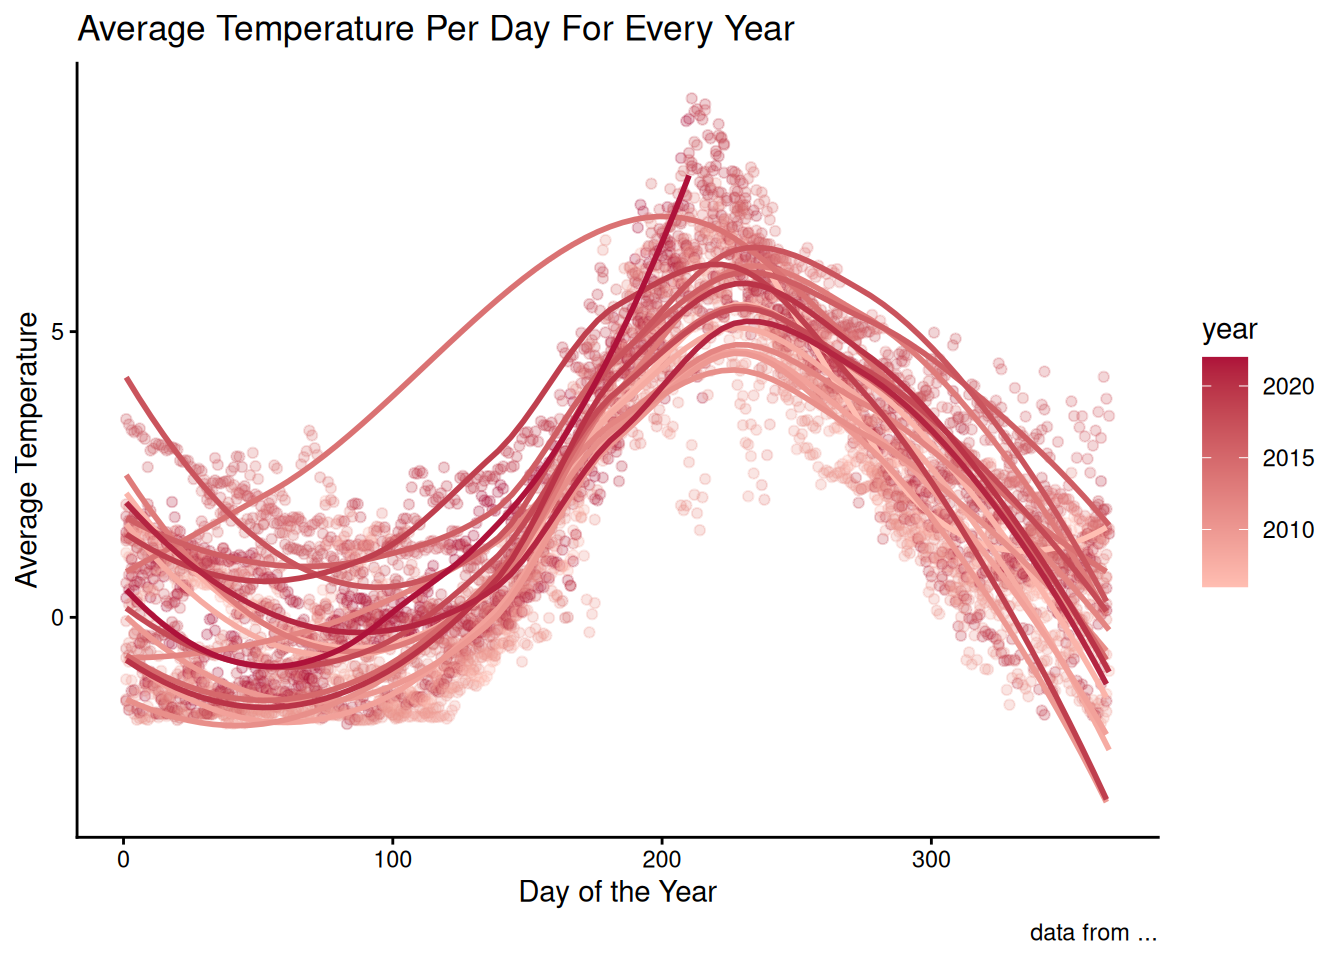
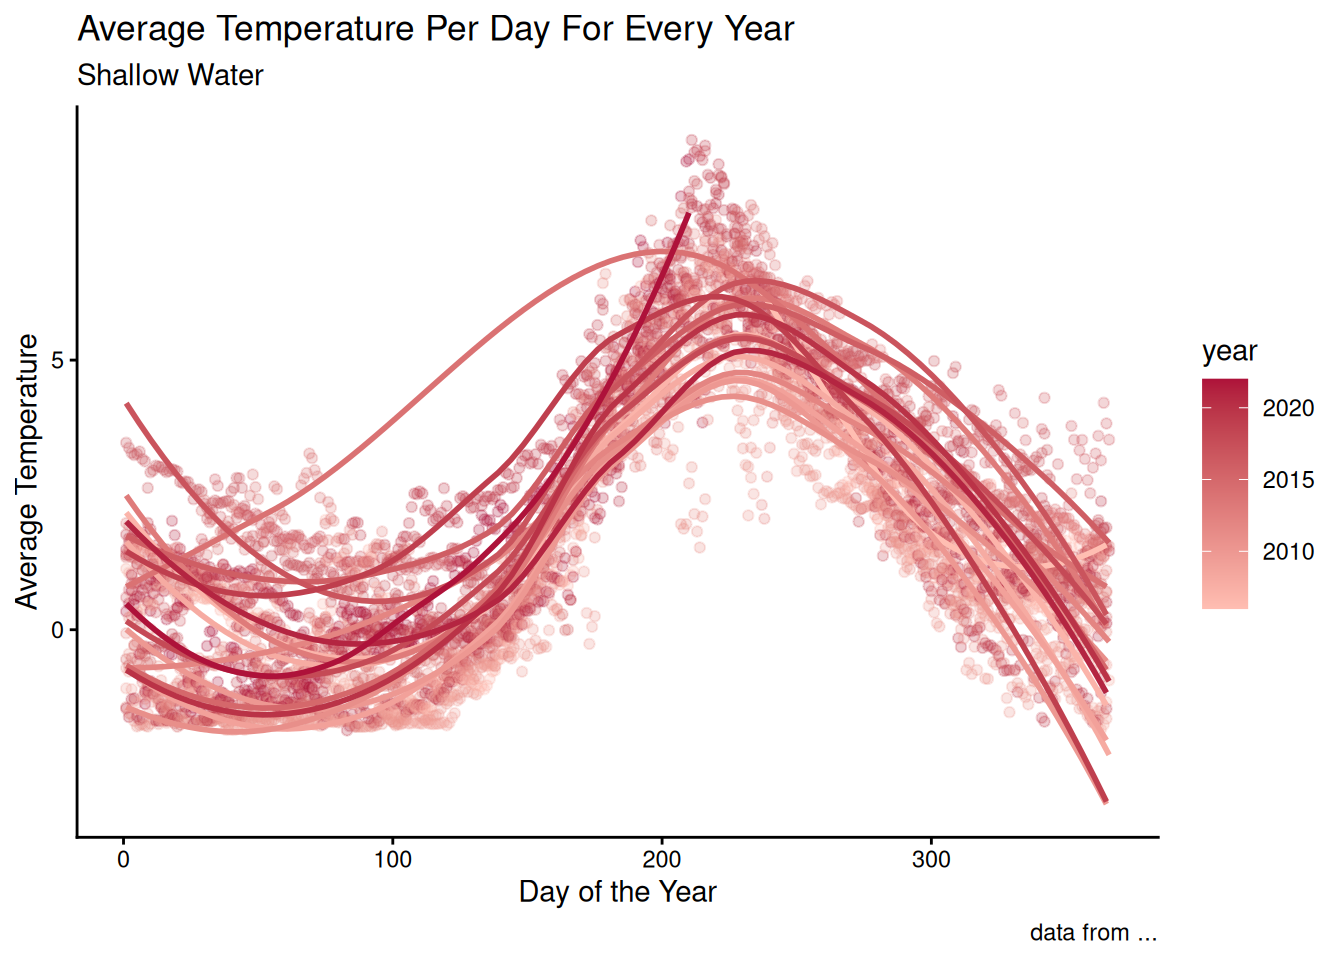
test

diff --git a/docs/posts/my_first_post/index.html b/docs/posts/my_first_post/index.html
@@ -268,9 +268,10 @@ pre > code.sourceCode > span > a:first-child::before { text-decoration: underlin
 <span id="cb3-55"><a href="#cb3-55" aria-hidden="true" tabindex="-1"></a>    <span class="at">x =</span> <span class="st">"Day of the Year"</span>,</span>
 <span id="cb3-56"><a href="#cb3-56" aria-hidden="true" tabindex="-1"></a>    <span class="at">y =</span> <span class="st">"Average Temperature"</span>,</span>
 <span id="cb3-57"><a href="#cb3-57" aria-hidden="true" tabindex="-1"></a>    <span class="at">title =</span> <span class="st">"Average Temperature Per Day For Every Year"</span>,</span>
-<span id="cb3-58"><a href="#cb3-58" aria-hidden="true" tabindex="-1"></a>    <span class="at">caption =</span> <span class="st">"data from ..."</span></span>
-<span id="cb3-59"><a href="#cb3-59" aria-hidden="true" tabindex="-1"></a>   ) <span class="sc">+</span> <span class="fu">scale_colour_continuous</span>(<span class="at">low =</span> <span class="st">"#FFBEB2"</span>, <span class="at">high =</span> <span class="st">"#AE123A"</span>) <span class="sc">+</span></span>
-<span id="cb3-60"><a href="#cb3-60" aria-hidden="true" tabindex="-1"></a>  <span class="fu">theme_classic</span>()</span></code></pre></div><button title="Copy to Clipboard" class="code-copy-button"><i class="bi"></i></button></div>
+<span id="cb3-58"><a href="#cb3-58" aria-hidden="true" tabindex="-1"></a>    <span class="at">subtitle =</span> <span class="st">"Shallow Water"</span>,</span>
+<span id="cb3-59"><a href="#cb3-59" aria-hidden="true" tabindex="-1"></a>    <span class="at">caption =</span> <span class="st">"data from ..."</span></span>
+<span id="cb3-60"><a href="#cb3-60" aria-hidden="true" tabindex="-1"></a>   ) <span class="sc">+</span> <span class="fu">scale_colour_continuous</span>(<span class="at">low =</span> <span class="st">"#FFBEB2"</span>, <span class="at">high =</span> <span class="st">"#AE123A"</span>) <span class="sc">+</span></span>
+<span id="cb3-61"><a href="#cb3-61" aria-hidden="true" tabindex="-1"></a>  <span class="fu">theme_classic</span>()</span></code></pre></div><button title="Copy to Clipboard" class="code-copy-button"><i class="bi"></i></button></div>
 <div class="cell-output cell-output-stderr">
 <pre><code>`geom_smooth()` using method = 'loess' and formula = 'y ~ x'</code></pre>
 </div>
@@ -291,15 +292,16 @@ pre > code.sourceCode > span > a:first-child::before { text-decoration: underlin
 <span id="cb5-6"><a href="#cb5-6" aria-hidden="true" tabindex="-1"></a>         <span class="at">y =</span> min_temp,</span>
 <span id="cb5-7"><a href="#cb5-7" aria-hidden="true" tabindex="-1"></a>         <span class="at">group =</span> year,</span>
 <span id="cb5-8"><a href="#cb5-8" aria-hidden="true" tabindex="-1"></a>         <span class="at">color =</span> year)</span>
-<span id="cb5-9"><a href="#cb5-9" aria-hidden="true" tabindex="-1"></a>       ) <span class="sc">+</span><span class="fu">geom_point</span>() <span class="sc">+</span></span>
+<span id="cb5-9"><a href="#cb5-9" aria-hidden="true" tabindex="-1"></a>       ) <span class="sc">+</span><span class="fu">geom_point</span>(<span class="at">alpha =</span> <span class="fl">0.25</span>) <span class="sc">+</span></span>
 <span id="cb5-10"><a href="#cb5-10" aria-hidden="true" tabindex="-1"></a>      <span class="fu">geom_smooth</span>(<span class="at">se =</span> <span class="cn">FALSE</span>)<span class="sc">+</span></span>
 <span id="cb5-11"><a href="#cb5-11" aria-hidden="true" tabindex="-1"></a>    <span class="fu">labs</span>(</span>
 <span id="cb5-12"><a href="#cb5-12" aria-hidden="true" tabindex="-1"></a>       <span class="at">x =</span> <span class="st">"Day of the Year"</span>,</span>
 <span id="cb5-13"><a href="#cb5-13" aria-hidden="true" tabindex="-1"></a>       <span class="at">y =</span> <span class="st">"Average Minimum Temperature"</span>,</span>
 <span id="cb5-14"><a href="#cb5-14" aria-hidden="true" tabindex="-1"></a>       <span class="at">title =</span> <span class="st">"Average Minimum Temperature Per Day For Every Year"</span>,</span>
-<span id="cb5-15"><a href="#cb5-15" aria-hidden="true" tabindex="-1"></a>      <span class="at">caption =</span> <span class="st">"data from ..."</span></span>
-<span id="cb5-16"><a href="#cb5-16" aria-hidden="true" tabindex="-1"></a>    )  <span class="sc">+</span> <span class="fu">scale_colour_continuous</span>(<span class="at">low =</span> <span class="st">"#FFBEB2"</span>, <span class="at">high =</span> <span class="st">"#AE123A"</span>) <span class="sc">+</span></span>
-<span id="cb5-17"><a href="#cb5-17" aria-hidden="true" tabindex="-1"></a>  <span class="fu">theme_classic</span>()</span></code></pre></div><button title="Copy to Clipboard" class="code-copy-button"><i class="bi"></i></button></div>
+<span id="cb5-15"><a href="#cb5-15" aria-hidden="true" tabindex="-1"></a>       <span class="at">subtitle =</span> <span class="st">"Shallow Water"</span>,</span>
+<span id="cb5-16"><a href="#cb5-16" aria-hidden="true" tabindex="-1"></a>      <span class="at">caption =</span> <span class="st">"data from ..."</span></span>
+<span id="cb5-17"><a href="#cb5-17" aria-hidden="true" tabindex="-1"></a>    )  <span class="sc">+</span> <span class="fu">scale_colour_continuous</span>(<span class="at">low =</span> <span class="st">"#FFBEB2"</span>, <span class="at">high =</span> <span class="st">"#AE123A"</span>) <span class="sc">+</span></span>
+<span id="cb5-18"><a href="#cb5-18" aria-hidden="true" tabindex="-1"></a>  <span class="fu">theme_classic</span>()</span></code></pre></div><button title="Copy to Clipboard" class="code-copy-button"><i class="bi"></i></button></div>
 <div class="cell-output cell-output-stderr">
 <pre><code>`geom_smooth()` using method = 'loess' and formula = 'y ~ x'</code></pre>
 </div>
@@ -320,15 +322,16 @@ pre > code.sourceCode > span > a:first-child::before { text-decoration: underlin
 <span id="cb7-6"><a href="#cb7-6" aria-hidden="true" tabindex="-1"></a>         <span class="at">y =</span> max_temp,</span>
 <span id="cb7-7"><a href="#cb7-7" aria-hidden="true" tabindex="-1"></a>         <span class="at">group =</span> year,</span>
 <span id="cb7-8"><a href="#cb7-8" aria-hidden="true" tabindex="-1"></a>         <span class="at">color =</span> year)</span>
-<span id="cb7-9"><a href="#cb7-9" aria-hidden="true" tabindex="-1"></a>) <span class="sc">+</span><span class="fu">geom_point</span>() <span class="sc">+</span></span>
+<span id="cb7-9"><a href="#cb7-9" aria-hidden="true" tabindex="-1"></a>) <span class="sc">+</span><span class="fu">geom_point</span>(<span class="at">alpha =</span> <span class="fl">0.25</span>) <span class="sc">+</span></span>
 <span id="cb7-10"><a href="#cb7-10" aria-hidden="true" tabindex="-1"></a>  <span class="fu">geom_smooth</span>(<span class="at">se =</span> <span class="cn">FALSE</span>)<span class="sc">+</span></span>
 <span id="cb7-11"><a href="#cb7-11" aria-hidden="true" tabindex="-1"></a>  <span class="fu">labs</span>(</span>
 <span id="cb7-12"><a href="#cb7-12" aria-hidden="true" tabindex="-1"></a>    <span class="at">x =</span> <span class="st">"Day of the Year"</span>,</span>
 <span id="cb7-13"><a href="#cb7-13" aria-hidden="true" tabindex="-1"></a>    <span class="at">y =</span> <span class="st">"Average Maximum Temperature"</span>,</span>
 <span id="cb7-14"><a href="#cb7-14" aria-hidden="true" tabindex="-1"></a>    <span class="at">title =</span> <span class="st">"Average Maximum Temperature Per Day For Every Year"</span>,</span>
-<span id="cb7-15"><a href="#cb7-15" aria-hidden="true" tabindex="-1"></a>    <span class="at">caption =</span> <span class="st">"data from ..."</span></span>
-<span id="cb7-16"><a href="#cb7-16" aria-hidden="true" tabindex="-1"></a>  )  <span class="sc">+</span> <span class="fu">scale_colour_continuous</span>(<span class="at">low =</span> <span class="st">"#FFBEB2"</span>, <span class="at">high =</span> <span class="st">"#AE123A"</span>) <span class="sc">+</span></span>
-<span id="cb7-17"><a href="#cb7-17" aria-hidden="true" tabindex="-1"></a>  <span class="fu">theme_classic</span>()</span></code></pre></div><button title="Copy to Clipboard" class="code-copy-button"><i class="bi"></i></button></div>
+<span id="cb7-15"><a href="#cb7-15" aria-hidden="true" tabindex="-1"></a>    <span class="at">subtitle =</span> <span class="st">"Shallow Water"</span>,</span>
+<span id="cb7-16"><a href="#cb7-16" aria-hidden="true" tabindex="-1"></a>    <span class="at">caption =</span> <span class="st">"data from ..."</span></span>
+<span id="cb7-17"><a href="#cb7-17" aria-hidden="true" tabindex="-1"></a>  )  <span class="sc">+</span> <span class="fu">scale_colour_continuous</span>(<span class="at">low =</span> <span class="st">"#FFBEB2"</span>, <span class="at">high =</span> <span class="st">"#AE123A"</span>) <span class="sc">+</span></span>
+<span id="cb7-18"><a href="#cb7-18" aria-hidden="true" tabindex="-1"></a>  <span class="fu">theme_classic</span>()</span></code></pre></div><button title="Copy to Clipboard" class="code-copy-button"><i class="bi"></i></button></div>
 <div class="cell-output cell-output-stderr">
 <pre><code>`geom_smooth()` using method = 'loess' and formula = 'y ~ x'</code></pre>
 </div>
@@ -356,9 +359,10 @@ pre > code.sourceCode > span > a:first-child::before { text-decoration: underlin
 <span id="cb9-13"><a href="#cb9-13" aria-hidden="true" tabindex="-1"></a>    <span class="at">x =</span> <span class="st">"Day of the Year"</span>,</span>
 <span id="cb9-14"><a href="#cb9-14" aria-hidden="true" tabindex="-1"></a>    <span class="at">y =</span> <span class="st">"Average Temperature"</span>,</span>
 <span id="cb9-15"><a href="#cb9-15" aria-hidden="true" tabindex="-1"></a>    <span class="at">title =</span> <span class="st">"Average Temperature Per Day For Every Year"</span>,</span>
-<span id="cb9-16"><a href="#cb9-16" aria-hidden="true" tabindex="-1"></a>    <span class="at">caption =</span> <span class="st">"data from ..."</span></span>
-<span id="cb9-17"><a href="#cb9-17" aria-hidden="true" tabindex="-1"></a>  ) <span class="sc">+</span> <span class="fu">scale_colour_continuous</span>(<span class="at">low =</span> <span class="st">"#FFBEB2"</span>, <span class="at">high =</span> <span class="st">"#AE123A"</span>) <span class="sc">+</span></span>
-<span id="cb9-18"><a href="#cb9-18" aria-hidden="true" tabindex="-1"></a>  <span class="fu">theme_classic</span>()</span></code></pre></div><button title="Copy to Clipboard" class="code-copy-button"><i class="bi"></i></button></div>
+<span id="cb9-16"><a href="#cb9-16" aria-hidden="true" tabindex="-1"></a>    <span class="at">subtitle =</span> <span class="st">"Deep Water"</span>,</span>
+<span id="cb9-17"><a href="#cb9-17" aria-hidden="true" tabindex="-1"></a>    <span class="at">caption =</span> <span class="st">"data from ..."</span></span>
+<span id="cb9-18"><a href="#cb9-18" aria-hidden="true" tabindex="-1"></a>  ) <span class="sc">+</span> <span class="fu">scale_colour_continuous</span>(<span class="at">low =</span> <span class="st">"#FFBEB2"</span>, <span class="at">high =</span> <span class="st">"#AE123A"</span>) <span class="sc">+</span></span>
+<span id="cb9-19"><a href="#cb9-19" aria-hidden="true" tabindex="-1"></a>  <span class="fu">theme_classic</span>()</span></code></pre></div><button title="Copy to Clipboard" class="code-copy-button"><i class="bi"></i></button></div>
 <div class="cell-output cell-output-stderr">
 <pre><code>`geom_smooth()` using method = 'loess' and formula = 'y ~ x'</code></pre>
 </div>
@@ -379,15 +383,16 @@ pre > code.sourceCode > span > a:first-child::before { text-decoration: underlin
 <span id="cb11-6"><a href="#cb11-6" aria-hidden="true" tabindex="-1"></a>         <span class="at">y =</span> min_temp_deep,</span>
 <span id="cb11-7"><a href="#cb11-7" aria-hidden="true" tabindex="-1"></a>         <span class="at">group =</span> year,</span>
 <span id="cb11-8"><a href="#cb11-8" aria-hidden="true" tabindex="-1"></a>         <span class="at">color =</span> year)</span>
-<span id="cb11-9"><a href="#cb11-9" aria-hidden="true" tabindex="-1"></a>) <span class="sc">+</span><span class="fu">geom_point</span>() <span class="sc">+</span></span>
+<span id="cb11-9"><a href="#cb11-9" aria-hidden="true" tabindex="-1"></a>) <span class="sc">+</span><span class="fu">geom_point</span>(<span class="at">alpha =</span> <span class="fl">0.25</span>) <span class="sc">+</span></span>
 <span id="cb11-10"><a href="#cb11-10" aria-hidden="true" tabindex="-1"></a>  <span class="fu">geom_smooth</span>(<span class="at">se =</span> <span class="cn">FALSE</span>)<span class="sc">+</span></span>
 <span id="cb11-11"><a href="#cb11-11" aria-hidden="true" tabindex="-1"></a>  <span class="fu">labs</span>(</span>
 <span id="cb11-12"><a href="#cb11-12" aria-hidden="true" tabindex="-1"></a>    <span class="at">x =</span> <span class="st">"Day of the Year"</span>,</span>
 <span id="cb11-13"><a href="#cb11-13" aria-hidden="true" tabindex="-1"></a>    <span class="at">y =</span> <span class="st">"Average Minimum Temperature"</span>,</span>
 <span id="cb11-14"><a href="#cb11-14" aria-hidden="true" tabindex="-1"></a>    <span class="at">title =</span> <span class="st">"Average Minimum Temperature Per Day For Every Year"</span>,</span>
-<span id="cb11-15"><a href="#cb11-15" aria-hidden="true" tabindex="-1"></a>    <span class="at">caption =</span> <span class="st">"data from ..."</span></span>
-<span id="cb11-16"><a href="#cb11-16" aria-hidden="true" tabindex="-1"></a>  )  <span class="sc">+</span> <span class="fu">scale_colour_continuous</span>(<span class="at">low =</span> <span class="st">"#FFBEB2"</span>, <span class="at">high =</span> <span class="st">"#AE123A"</span>) <span class="sc">+</span></span>
-<span id="cb11-17"><a href="#cb11-17" aria-hidden="true" tabindex="-1"></a>  <span class="fu">theme_classic</span>()</span></code></pre></div><button title="Copy to Clipboard" class="code-copy-button"><i class="bi"></i></button></div>
+<span id="cb11-15"><a href="#cb11-15" aria-hidden="true" tabindex="-1"></a>    <span class="at">subtitle =</span> <span class="st">"Deep Water"</span>,</span>
+<span id="cb11-16"><a href="#cb11-16" aria-hidden="true" tabindex="-1"></a>    <span class="at">caption =</span> <span class="st">"data from ..."</span></span>
+<span id="cb11-17"><a href="#cb11-17" aria-hidden="true" tabindex="-1"></a>  )  <span class="sc">+</span> <span class="fu">scale_colour_continuous</span>(<span class="at">low =</span> <span class="st">"#FFBEB2"</span>, <span class="at">high =</span> <span class="st">"#AE123A"</span>) <span class="sc">+</span></span>
+<span id="cb11-18"><a href="#cb11-18" aria-hidden="true" tabindex="-1"></a>  <span class="fu">theme_classic</span>()</span></code></pre></div><button title="Copy to Clipboard" class="code-copy-button"><i class="bi"></i></button></div>
 <div class="cell-output cell-output-stderr">
 <pre><code>`geom_smooth()` using method = 'loess' and formula = 'y ~ x'</code></pre>
 </div>
@@ -406,15 +411,16 @@ pre > code.sourceCode > span > a:first-child::before { text-decoration: underlin
 <span id="cb13-4"><a href="#cb13-4" aria-hidden="true" tabindex="-1"></a>         <span class="at">y =</span> max_temp_deep,</span>
 <span id="cb13-5"><a href="#cb13-5" aria-hidden="true" tabindex="-1"></a>         <span class="at">group =</span> year,</span>
 <span id="cb13-6"><a href="#cb13-6" aria-hidden="true" tabindex="-1"></a>         <span class="at">color =</span> year)</span>
-<span id="cb13-7"><a href="#cb13-7" aria-hidden="true" tabindex="-1"></a>) <span class="sc">+</span><span class="fu">geom_point</span>() <span class="sc">+</span></span>
+<span id="cb13-7"><a href="#cb13-7" aria-hidden="true" tabindex="-1"></a>) <span class="sc">+</span><span class="fu">geom_point</span>(<span class="at">alpha =</span> <span class="fl">0.25</span>) <span class="sc">+</span></span>
 <span id="cb13-8"><a href="#cb13-8" aria-hidden="true" tabindex="-1"></a>  <span class="fu">geom_smooth</span>(<span class="at">se =</span> <span class="cn">FALSE</span>)<span class="sc">+</span></span>
 <span id="cb13-9"><a href="#cb13-9" aria-hidden="true" tabindex="-1"></a>  <span class="fu">labs</span>(</span>
 <span id="cb13-10"><a href="#cb13-10" aria-hidden="true" tabindex="-1"></a>    <span class="at">x =</span> <span class="st">"Day of the Year"</span>,</span>
 <span id="cb13-11"><a href="#cb13-11" aria-hidden="true" tabindex="-1"></a>    <span class="at">y =</span> <span class="st">"Average Maximum Temperature"</span>,</span>
 <span id="cb13-12"><a href="#cb13-12" aria-hidden="true" tabindex="-1"></a>    <span class="at">title =</span> <span class="st">"Average Maximum Temperature Per Day For Every Year"</span>,</span>
-<span id="cb13-13"><a href="#cb13-13" aria-hidden="true" tabindex="-1"></a>    <span class="at">caption =</span> <span class="st">"data from ..."</span></span>
-<span id="cb13-14"><a href="#cb13-14" aria-hidden="true" tabindex="-1"></a>  )  <span class="sc">+</span> <span class="fu">scale_colour_continuous</span>(<span class="at">low =</span> <span class="st">"#FFBEB2"</span>, <span class="at">high =</span> <span class="st">"#AE123A"</span>) <span class="sc">+</span></span>
-<span id="cb13-15"><a href="#cb13-15" aria-hidden="true" tabindex="-1"></a>  <span class="fu">theme_classic</span>()</span></code></pre></div><button title="Copy to Clipboard" class="code-copy-button"><i class="bi"></i></button></div>
+<span id="cb13-13"><a href="#cb13-13" aria-hidden="true" tabindex="-1"></a>    <span class="at">subtitle =</span> <span class="st">"Deep Water"</span>,</span>
+<span id="cb13-14"><a href="#cb13-14" aria-hidden="true" tabindex="-1"></a>    <span class="at">caption =</span> <span class="st">"data from ..."</span></span>
+<span id="cb13-15"><a href="#cb13-15" aria-hidden="true" tabindex="-1"></a>  )  <span class="sc">+</span> <span class="fu">scale_colour_continuous</span>(<span class="at">low =</span> <span class="st">"#FFBEB2"</span>, <span class="at">high =</span> <span class="st">"#AE123A"</span>) <span class="sc">+</span></span>
+<span id="cb13-16"><a href="#cb13-16" aria-hidden="true" tabindex="-1"></a>  <span class="fu">theme_classic</span>()</span></code></pre></div><button title="Copy to Clipboard" class="code-copy-button"><i class="bi"></i></button></div>
 <div class="cell-output cell-output-stderr">
 <pre><code>`geom_smooth()` using method = 'loess' and formula = 'y ~ x'</code></pre>
 </div>

diff --git a/docs/index.html b/docs/index.html
@@ -208,7 +208,7 @@ window.Quarto = {
 
 <div class="quarto-listing quarto-listing-container-default" id="listing-listing">
 <div class="list quarto-listing-default">
-<div class="quarto-post image-right" data-index="0" data-categories="cHJvamVjdCUyQ2dlbmVyYWw=" data-listing-date-sort="1787184000000" data-listing-file-modified-sort="1787335110028" data-listing-date-modified-sort="NaN" data-listing-reading-time-sort="6" data-listing-word-count-sort="1037">
+<div class="quarto-post image-right" data-index="0" data-categories="cHJvamVjdCUyQ2dlbmVyYWw=" data-listing-date-sort="1787184000000" data-listing-file-modified-sort="1787337203961" data-listing-date-modified-sort="NaN" data-listing-reading-time-sort="6" data-listing-word-count-sort="1090">
 <div class="thumbnail"><a href="./posts/my_first_post/index.html" class="no-external">
 
 <p class="card-img-top"><img src="posts/my_first_post/index_files/figure-html/unnamed-chunk-1-1.png"  class="thumbnail-image card-img"/></p>
